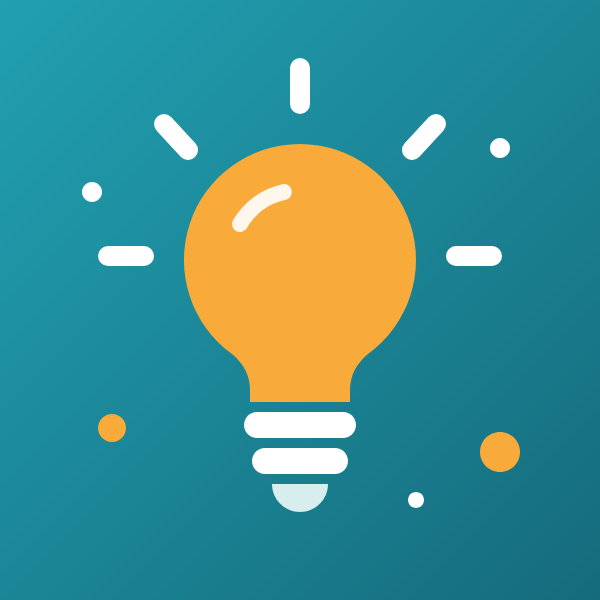
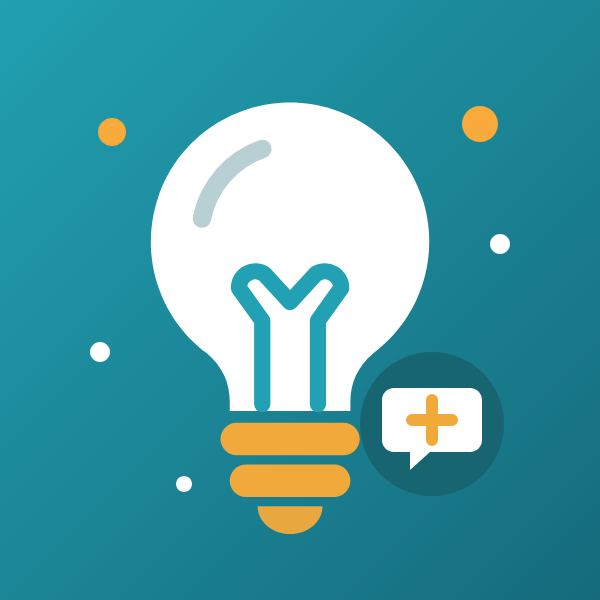
Ideen & Vorschläge: Symbol im Stil „Uffi frisch“, Mitteilungsblatt mit Vereine-Symbol

diff --git a/modules/designwahl/resources/barrierefrei.js b/modules/designwahl/resources/barrierefrei.js
@@ -58,6 +58,12 @@
     function namen(root) {
         root.querySelectorAll('#search-menu').forEach(function (el) { name(el, t('Suche')); });
         root.querySelectorAll('.form-button-search').forEach(function (el) { name(el, t('Suchen')); });
+        // Space-Bilder: der Kern kodiert den Namen im Alt-Text doppelt („Vereine &amp; Ehrenamt“)
+        root.querySelectorAll('img[alt*="&amp;"], img[alt*="&quot;"], img[alt*="&#039;"]').forEach(function (img) {
+            var tx = document.createElement('textarea');
+            tx.innerHTML = img.alt;
+            img.alt = tx.value;
+        });
         // Avatar-Link neben dem Namen führt zum selben Ziel: für Tastatur und Screenreader überspringen
         root.querySelectorAll('.wall-entry-header-image a, .media-left > a, .comment .media > a').forEach(function (a) {
             if (!a.textContent.trim() && !a.getAttribute('aria-label')) {

diff --git a/modules/designwahl/widgets/DesignNeu.php b/modules/designwahl/widgets/DesignNeu.php
@@ -8,6 +8,7 @@ use humhub\modules\designwahl\assets\DesignAsset;
 use humhub\modules\designwahl\Module;
 use humhub\modules\ui\icon\widgets\Icon;
 use humhub\modules\space\models\Space;
+use humhub\modules\user\models\User;
 use Yii;
 
 /**
@@ -17,13 +18,19 @@ use Yii;
 class DesignNeu extends Widget
 {
     /** Eigene Space-Symbole (resources/spaces/*.svg) je Space-URL */
-    private const SPACE_SYMBOLE = [
+    public const SPACE_SYMBOLE = [
         'rathaus-uffenheim' => 'rathaus',
         'veranstaltungen' => 'veranstaltungen',
         'mangelmelder' => 'maengelmelder',
         'vereine-and-ehrenamt' => 'vereine',
         'abfall-and-termine' => 'abfall',
         'gewerbe' => 'gewerbe',
+        'vorschlaege' => 'vorschlaege',
+    ];
+
+    /** Import-Konten, deren Profilbild im neuen Design das Symbol ihres Spaces zeigt (Benutzername => Symbol) */
+    private const KONTO_SYMBOLE = [
+        'mitteilungsblatt' => 'vereine',
     ];
 
     public function run()
@@ -138,6 +145,12 @@ class DesignNeu extends Widget
             $css .= "html.design-neu img.space-profile-image-{$space->id}{display:inline-block!important;object-position:-9999px 0;"
                 . "background:url(\"{$svg}\") center/cover no-repeat;border-radius:50%!important}"
                 . "html.design-neu .space-profile-acronym-{$space->id}{display:none!important}";
+        }
+        $konten = User::find()->select(['contentcontainer_id', 'username'])->where(['username' => array_keys(self::KONTO_SYMBOLE)])->all();
+        foreach ($konten as $konto) {
+            $svg = $baseUrl . '/spaces/' . self::KONTO_SYMBOLE[$konto->username] . '.svg';
+            $css .= "html.design-neu img[data-contentcontainer-id=\"{$konto->contentcontainer_id}\"]:not([class*=space-profile-image]){object-position:-9999px 0;"
+                . "background:url(\"{$svg}\") center/cover no-repeat;border-radius:50%!important}";
         }
         if ($css !== '') {
             $this->view->registerCss($css, [], 'designwahl-spaces');

diff --git a/scripts/SetupController.php b/scripts/SetupController.php
@@ -608,7 +608,7 @@ class SetupController extends Controller
 
     /**
      * Space-Bilder aus design/spaces/<space-url>.png setzen (Stil wie die übrigen: Petrol-Verlauf, Symbol orange/weiß):
-     * setup/spacebilder – nur Spaces, zu denen es eine Datei gibt. Vorlage ist die SVG daneben; ImageMagick darf
+     * setup/spacebilder – nur Spaces, zu denen es eine Datei gibt; dazu Profilbilder von Import-Konten. Vorlage ist die SVG daneben; ImageMagick darf
      * hier kein SVG lesen (design/imagemagick-policy.xml), die PNG (600 px) wird darum im Browser gerendert.
      */
     public function actionSpacebilder()
@@ -622,6 +622,18 @@ class SetupController extends Controller
             copy($png, '/tmp/spacebild.png'); // Arbeitskopie, das Original bleibt
             $space->image->setByFile('/tmp/spacebild.png');
             $this->stdout("Bild gesetzt: {$space->name}\n");
+        }
+        // Import-Konten ohne eigenes Bild bekommen das Bild ihres Spaces (auch in Kommentaren, Profil, Erwähnungen)
+        foreach (['mitteilungsblatt' => 'vereine-and-ehrenamt'] as $name => $url) {
+            $user = User::findOne(['username' => $name]);
+            $space = Space::findOne(['url' => $url]);
+            if ($user === null || $space === null || !$space->image->exists()) {
+                $this->stderr("Übersprungen: $name\n");
+                continue;
+            }
+            file_put_contents('/tmp/kontobild.png', $space->image->fs->read($space->image->file));
+            $user->image->setByFile('/tmp/kontobild.png');
+            $this->stdout("Profilbild gesetzt: {$user->displayName} (wie {$space->name})\n");
         }
         Yii::$app->cache->flush();
         return ExitCode::OK;

diff --git a/modules/neuigkeiten/data/eintraege.php b/modules/neuigkeiten/data/eintraege.php
@@ -11,8 +11,8 @@
  */
 return [
     ['id' => 'space-bilder-gewerbe-ideen', 'datum' => '2026-10-29', 'art' => 'besser', 'popup' => false,
-        'titel' => 'Eigene Bilder für Gewerbe und Ideen',
-        'text' => 'Die Bereiche „Gewerbe & Einkaufen“ und „Ideen & Vorschläge“ haben jetzt eigene Bilder – eine Einkaufstasche und eine Glühbirne. Ihre Beiträge tragen dieses Bild in der Kopfzeile.'],
+        'titel' => 'Eigenes Symbol für Ideen & Vorschläge',
+        'text' => '„Ideen & Vorschläge“ hat jetzt ein eigenes Symbol, eine Glühbirne. Beiträge aus „Gewerbe & Einkaufen“ und „Ideen & Vorschläge“ tragen das Symbol ihres Bereichs in der Kopfzeile, Beiträge aus dem Mitteilungsblatt das Symbol der Vereine.'],
     ['id' => 'space-bild-im-beitrag', 'datum' => '2026-10-29', 'art' => 'besser', 'popup' => false,
         'titel' => 'Beiträge zeigen das Bild ihres Bereichs',
         'text' => 'Termine, Beiträge aus dem Rathaus und aus dem Mitteilungsblatt tragen jetzt links das Bild ihres Bereichs statt eines Kalenderblatts oder Platzhalters. Der Name des Bereichs steht dafür nicht mehr extra in der Kopfzeile.'],

diff --git a/modules/designwahl/components/Kopfbild.php b/modules/designwahl/components/Kopfbild.php
@@ -4,6 +4,7 @@ namespace humhub\modules\designwahl\components;
 
 use humhub\modules\content\components\ContentActiveRecord;
 use humhub\modules\content\widgets\stream\WallStreamModuleEntryWidget;
+use humhub\modules\designwahl\widgets\DesignNeu;
 use humhub\modules\space\models\Space;
 
 /**
@@ -23,7 +24,7 @@ class Kopfbild
     public static function space(ContentActiveRecord $model, $widget): ?Space
     {
         $space = $model->content->container;
-        if (!$space instanceof Space || !$space->image->exists()) {
+        if (!$space instanceof Space || (!$space->image->exists() && !isset(DesignNeu::SPACE_SYMBOLE[$space->url]))) {
             return null;
         }
         $autor = $model->content->createdBy;
